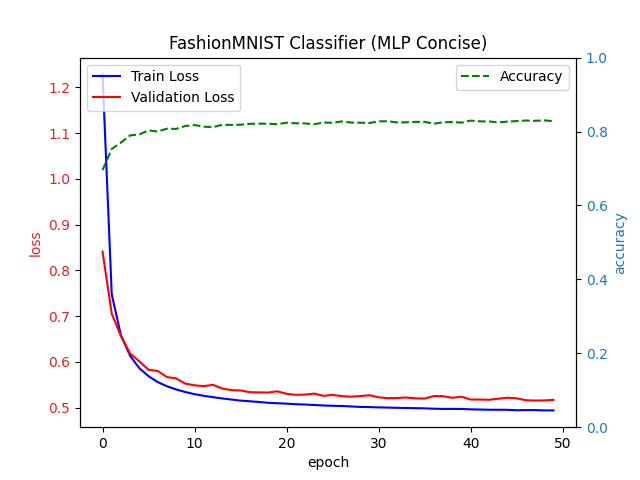
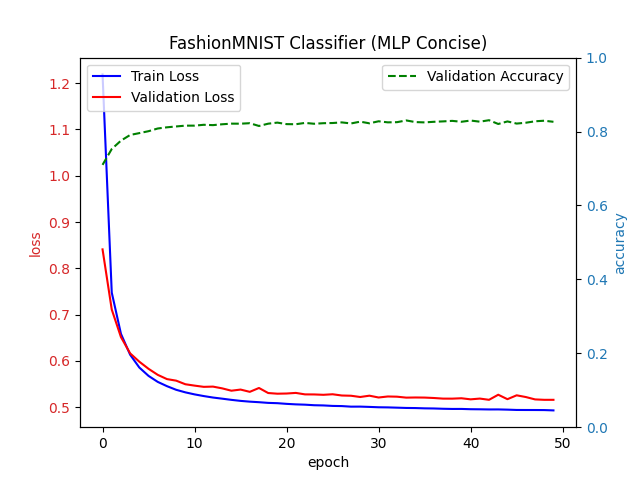
[feature - ch5] Add classifiers with dropout support.

diff --git a/chapter-5_multilayer-perceptrons/dropout_mlp_scratch/dropout_mlp_scratch.py b/chapter-5_multilayer-perceptrons/dropout_mlp_scratch/dropout_mlp_scratch.py
@@ -119,23 +119,71 @@ class FashionMNISTDataset:
         self.show_images(X, nrows, ncols, titles=labels, save_filename=filename)
 
 
-class MLP(nn.Module):
+class DropoutMLPScratch(nn.Module):
     def __init__(
         self,
+        num_channels: int,
+        pixels_width: int,
+        pixels_height: int,
         num_labels: int,
-        num_hidden_units: int = 256,
+        num_hidden_units: tuple[int, int] = (256, 256),
+        dropout_probabilities: tuple[float, float] = (0.5, 0.5),
     ) -> None:
+        assert len(num_hidden_units) == 2 and len(dropout_probabilities) == 2, \
+            "Only two hidden layers are supported."
+
+        assert all(0.0 <= p <= 1.0 for p in dropout_probabilities), \
+            "Dropout probabilities must be in the range [0.0, 1.0]."
+
         super().__init__()
 
-        self._net = nn.Sequential(
-            nn.Flatten(),
-            nn.LazyLinear(num_hidden_units),
-            nn.ReLU(),
-            nn.LazyLinear(num_labels),
-        )
+        num_features = num_channels * pixels_width * pixels_height
+        self._W1 = nn.Parameter(torch.randn((num_features, num_hidden_units[0])))
+        self._b1 = nn.Parameter(torch.zeros((1, num_hidden_units[0])))
+
+        self._W2 = nn.Parameter(torch.randn((num_hidden_units[0], num_hidden_units[1])))
+        self._b2 = nn.Parameter(torch.zeros(1, num_hidden_units[1]))
+
+        self._W3 = nn.Parameter(torch.randn((num_hidden_units[1], num_labels)))
+        self._b3 = nn.Parameter(torch.zeros(1, num_labels))
+
+        self._dropout_probabilities = dropout_probabilities
 
     def forward(self, X: torch.Tensor) -> torch.Tensor:
-        return self._net(X)
+        assert len(X.shape) == 2, "X must be flattened."
+
+        # The first hidden layer
+        H1 = X @ self._W1 + self._b1
+        H1 = self.relu(H1)
+
+        if self.training:
+            H1 = self.dropout(H1, self._dropout_probabilities[0])
+
+        # The second hidden layer
+        H2 = H1 @ self._W2 + self._b2
+        H2 = self.relu(H2)
+
+        if self.training:
+            H2 = self.dropout(H2, self._dropout_probabilities[1])
+
+        # The output layer
+        H3 = H2 @ self._W3 + self._b3
+        # We don't need an activiation function for the last hidden layer.
+
+        return H3
+
+    @staticmethod
+    def relu(H: torch.Tensor) -> torch.Tensor:
+        zeros = torch.zeros_like(H)
+        return torch.max(H, zeros)
+
+    @staticmethod
+    def dropout(
+        X: torch.Tensor,
+        probability: float,
+    ) -> torch.Tensor:
+        mask = (torch.rand(X.shape) > probability).float()
+        return (X * mask) / (1.0 - probability)
 
 
 class TransformMixin:
@@ -152,7 +200,7 @@ class TransformMixin:
 class Trainer(TransformMixin):
     def __init__(
         self,
-        model: MLP,
+        model: DropoutMLPScratch,
         dataset: FashionMNISTDataset,
         loss_measurer: nn.CrossEntropyLoss,
         optimizer: torch.optim.Optimizer,
@@ -266,7 +314,7 @@ class PredStdev:
 class Validator(TransformMixin):
     def __init__(
         self,
-        model: MLP,
+        model: DropoutMLPScratch,
         dataset: FashionMNISTDataset,
         loss_measurer: nn.CrossEntropyLoss,
     ) -> None:
@@ -307,7 +355,7 @@ class Validator(TransformMixin):
                 self._collect_samples(corrects, wrongs, X, y_indices, y_pred_indices)
 
             mean, median = psd.get()
-            logger.debug("Prediction stdev: mean = {:.3f}, median = {:.3f}", mean, median)
+            logger.debug("Prediction stdev: mean = {}, median = {}", mean, median)
 
         mean_loss = total_loss / num_batches
         accuracy = num_correct / num_total
@@ -387,36 +435,39 @@ class MetricsPlotter:
 def main(
     preview_dataset: bool = True
 ) -> None:
+    num_channels = 1
     width = 24
     height = 24
     num_samples = 16
     max_epochs = 50
     learning_rate = 0.01
     weight_decay = 0.01
+    num_hidden_units = (255, 255)
+    dropout_probabilities = (0.5, 0.5)
 
     dataset = FashionMNISTDataset(resize=(width, height))
     if preview_dataset:
         batch = next(iter(dataset.get_data_loader(False)))
         dataset.visualize(batch)
 
-    model = MLP(dataset.num_labels)
+    model = DropoutMLPScratch(
+        num_channels, width, height, dataset.num_labels, num_hidden_units, dropout_probabilities)
+
     loss_measurer = nn.CrossEntropyLoss()
     optimizer = optim.SGD(params=model.parameters(),
                           lr=learning_rate,
                           weight_decay=weight_decay)
-
     trainer = Trainer(model, dataset, loss_measurer, optimizer)
     validator = Validator(model, dataset, loss_measurer)
     plotter = MetricsPlotter(
-        title="FashionMNIST Classifier (MLP Concise)", filename="metrics.png")
+        title="FashionMNIST Classifier (Dropout MLP Scratch)", filename="metrics.png")
 
     samples: list[torch.Tensor] = []
     for epoch in range(max_epochs):
         train_loss = trainer.fit()
         validate_loss, accuracy, samples = validator(
             num_samples if epoch == max_epochs - 1 else 0)
-
-        logger.info("epoch #{}, train_loss = {:.3f}, validate_loss = {:.3f}, accuracy = {:.1%}",
+        logger.info("epoch #{}, train_loss = {:.3f}, validate_loss = {:.3f}, accuracy = {:.3f}",
                     epoch, train_loss, validate_loss, accuracy)
         plotter.add(epoch, train_loss, validate_loss, accuracy)
 
@@ -425,7 +476,7 @@ def main(
 
     logger.info("Done!")
     # Final output:
-    # epoch #49, train_loss = 0.493, validate_loss = 0.516, accuracy = 82.6%
+    # epoch #49, train_loss = 0.675, validate_loss = 0.570, accuracy = 0.809
 
 
 if __name__ == "__main__":

diff --git a/chapter-5_multilayer-perceptrons/dropout_mlp_concise/dropout_mlp_concise.py b/chapter-5_multilayer-perceptrons/dropout_mlp_concise/dropout_mlp_concise.py
@@ -119,18 +119,29 @@ class FashionMNISTDataset:
         self.show_images(X, nrows, ncols, titles=labels, save_filename=filename)
 
 
-class MLP(nn.Module):
+class DropoutMLP(nn.Module):
     def __init__(
         self,
         num_labels: int,
-        num_hidden_units: int = 256,
+        num_hidden_units: tuple[int, int] = (256, 256),
+        dropout_probabilities: tuple[float, float] = (0.5, 0.5),
     ) -> None:
+        assert len(num_hidden_units) == 2 and len(dropout_probabilities) == 2, \
+            "Only two hidden layers are supported."
+
+        assert all(0.0 <= p <= 1.0 for p in dropout_probabilities), \
+            "Dropout probabilities must be in the range [0.0, 1.0]."
+
         super().__init__()
 
         self._net = nn.Sequential(
             nn.Flatten(),
-            nn.LazyLinear(num_hidden_units),
+            nn.LazyLinear(num_hidden_units[0]),
             nn.ReLU(),
+            nn.Dropout(dropout_probabilities[0]),
+            nn.LazyLinear(num_hidden_units[1]),
+            nn.ReLU(),
+            nn.Dropout(dropout_probabilities[1]),
             nn.LazyLinear(num_labels),
         )
 
@@ -152,7 +163,7 @@ class TransformMixin:
 class Trainer(TransformMixin):
     def __init__(
         self,
-        model: MLP,
+        model: DropoutMLP,
         dataset: FashionMNISTDataset,
         loss_measurer: nn.CrossEntropyLoss,
         optimizer: torch.optim.Optimizer,
@@ -266,7 +277,7 @@ class PredStdev:
 class Validator(TransformMixin):
     def __init__(
         self,
-        model: MLP,
+        model: DropoutMLP,
         dataset: FashionMNISTDataset,
         loss_measurer: nn.CrossEntropyLoss,
     ) -> None:
@@ -393,13 +404,15 @@ def main(
     max_epochs = 50
     learning_rate = 0.01
     weight_decay = 0.01
+    num_hidden_units = (255, 255)
+    dropout_probabilities = (0.5, 0.5)
 
     dataset = FashionMNISTDataset(resize=(width, height))
     if preview_dataset:
         batch = next(iter(dataset.get_data_loader(False)))
         dataset.visualize(batch)
 
-    model = MLP(dataset.num_labels)
+    model = DropoutMLP(dataset.num_labels, num_hidden_units, dropout_probabilities)
     loss_measurer = nn.CrossEntropyLoss()
     optimizer = optim.SGD(params=model.parameters(),
                           lr=learning_rate,
@@ -408,7 +421,7 @@ def main(
     trainer = Trainer(model, dataset, loss_measurer, optimizer)
     validator = Validator(model, dataset, loss_measurer)
     plotter = MetricsPlotter(
-        title="FashionMNIST Classifier (MLP Concise)", filename="metrics.png")
+        title="FashionMNIST Classifier (Dropout MLP Concise)", filename="metrics.png")
 
     samples: list[torch.Tensor] = []
     for epoch in range(max_epochs):
@@ -425,7 +438,7 @@ def main(
 
     logger.info("Done!")
     # Final output:
-    # epoch #49, train_loss = 0.493, validate_loss = 0.516, accuracy = 82.6%
+    # epoch #49, train_loss = 0.529, validate_loss = 0.498, accuracy = 82.5%
 
 
 if __name__ == "__main__":

diff --git a/chapter-5_multilayer-perceptrons/mlp_scratch/mlp_scratch.py b/chapter-5_multilayer-perceptrons/mlp_scratch/mlp_scratch.py
@@ -144,11 +144,8 @@ class MLPScratch(nn.Module):
         H1 = X @ self._W1 + self._b1
         H1 = self.relu(H1)
 
-        # The second hidden layer
-        H2 = H1 @ self._W2 + self._b2
-        # We don't need an activiation function for the last hidden layer.
-
-        return H2
+        # The output layer
+        return H1 @ self._W2 + self._b2
 
     @staticmethod
     def relu(H: torch.Tensor) -> torch.Tensor:
@@ -392,7 +389,7 @@ class MetricsPlotter:
         # Create a second y-axis for accuracy
         ax2 = ax1.twinx()
         ax2.set_ylabel('accuracy', color='tab:blue')
-        ax2.plot(self._epochs, self._accuracies, 'g', label='Accuracy', linestyle='--')
+        ax2.plot(self._epochs, self._accuracies, 'g', label='Validation Accuracy', linestyle='--')
         ax2.tick_params(axis='y', labelcolor='tab:blue')
         ax2.set_ylim(0, 1.0)
         ax2.legend(loc='upper right')
@@ -435,7 +432,7 @@ def main(
         train_loss = trainer.fit()
         validate_loss, accuracy, samples = validator(
             num_samples if epoch == max_epochs - 1 else 0)
-        logger.info("epoch #{}, train_loss = {}, validate_loss = {}, accuracy = {}",
+        logger.info("epoch #{}, train_loss = {:.3f}, validate_loss = {:.3f}, accuracy = {:.1%}",
                     epoch, train_loss, validate_loss, accuracy)
         plotter.add(epoch, train_loss, validate_loss, accuracy)
 
@@ -444,7 +441,7 @@ def main(
 
     logger.info("Done!")
     # Final output:
-    # epoch #49, train_loss = 0.4836, validate_loss = 0.5054, accuracy = 0.8347
+    # epoch #49, train_loss = 0.493, validate_loss = 0.516, accuracy = 82.6%
 
 
 if __name__ == "__main__":
